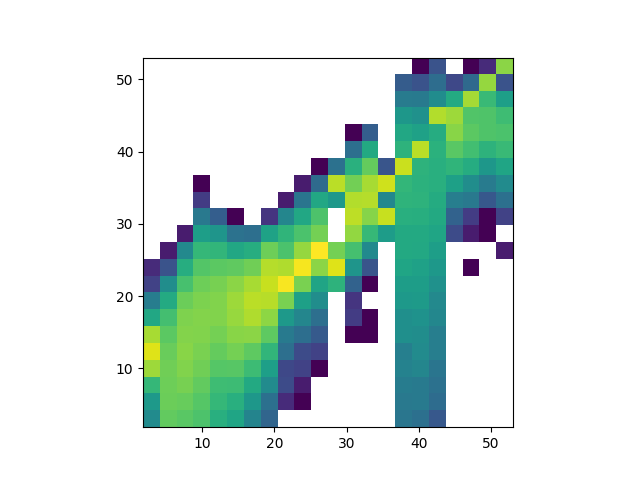
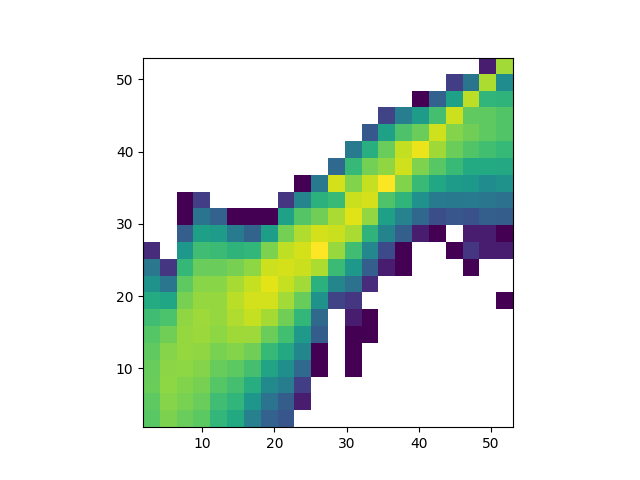
modification on ORCA

Changed region(s): [[0.2188, 0.125, 0.8125, 0.9062], [0.75, 0.5938, 0.8125, 0.6562], [0.75, 0.1562, 0.8125, 0.1875]]

diff --git a/sources/ORCA/plot.py b/sources/ORCA/plot.py
@@ -1,10 +1,47 @@
 import matplotlib.pyplot as plt
 import numpy as np
 from matplotlib.colors import LogNorm
+from scipy.optimize import curve_fit
 
+import digitalizer as dgt
 import util
+from util import gaussian
 import analyze as anl
 from params import *
+
+def plot_mig_hist(binnum):
+
+    tracks = dgt.Digitalizer(input_track, input_scale)
+    cascades = dgt.Digitalizer(input_cascade, input_scale)
+
+    tracks.set_palette(0, -3, 20)
+    cascades.set_palette(0, -3, 20)
+
+    tracks.digitalize(22, 22)
+    cascades.digitalize(22, 22)
+
+    D_tracks = tracks.extracted
+    D_cascades = cascades.extracted
+
+    data_entries = D_tracks[binnum]
+    # data_entries = D_cascades[binnum]
+
+    print(data_entries)
+
+    bins_centers = np.array([0.5 * (x_bins[i] + x_bins[i+1]) for i in range(len(x_bins)-1)])
+    popt, pcov = curve_fit(gaussian, xdata=bins_centers, ydata=data_entries, p0=[binnum, 20])
+
+    # # Generate enough x values to make the curves look smooth.
+    xspace = np.linspace(2, 55, 100000)
+
+    # # Plot the histogram and the fitted function.
+    plt.bar(bins_centers, data_entries, width=x_bins[1] - x_bins[0], color='navy', label=r'Histogram entries')
+    plt.plot(xspace, gaussian(xspace, *popt), color='darkorange', linewidth=2.5, label=r'Fitted function')
+    plt.savefig("./MigMatPlots/TrackMigMatBin{}.png".format(binnum))
+    plt.close()
+
+# for i in range(22):
+#     plot_mig_hist(i)
 
 def plot_zenith_errors():
     e, ebar, mu, mubar = util.get_zenith_error()

diff --git a/sources/ORCA/digitalizer.py b/sources/ORCA/digitalizer.py
@@ -24,6 +24,8 @@ class Digitalizer:
 			# print("in the ", iy, "th bin, the color extracted is ", c)
 			self.palette_clr.append(c)
 
+		# print(self.palette_clr)
+
 	def digitalize(self, n_bins_x, n_bins_y):
 		ext_data = np.zeros((n_bins_x, n_bins_y))
 
@@ -37,6 +39,12 @@ class Digitalizer:
 		            ext_data[ix, n_bins_y - 1 - iy] = 0
 		        else:
 		            ic = np.argmin(np.sum((c[None,:] - self.palette_clr) ** 2, axis = 1) )         # find closest color in palette
+		            if self.palette_x[ic] < 0.002:
+		            	ext_data[ix, n_bins_y - 1 - iy] = 0
+		            	continue
+		            elif self.palette_x[ic] > 0.8: # too dark, probably a text there
+		            	 c = self.image[int(np.round((iy + 0.5) * dy)) + 15, int(np.round((ix + 0.5) * dx) - 10)] # look beside the center
+		            	 ic = np.argmin(np.sum((c[None,:] - self.palette_clr) ** 2, axis = 1) )
 		            ext_data[ix, n_bins_y - 1 - iy] = self.palette_x[ic]
 
 		self.extracted = ext_data
@@ -44,6 +52,6 @@ class Digitalizer:
 	def fit(self):
 		self.gaussians = np.ndarray((self.extracted.shape[0],2), float)
 		for i in range(self.extracted.shape[0]):
-			sigma, mu = gaus_fit(self.extracted[i], x_bins)
+			sigma, mu = gaus_fit(self.extracted[i], x_bins, i)
 			self.gaussians[i][0] = sigma
 			self.gaussians[i][1] = mu

diff --git a/sources/ORCA/util.py b/sources/ORCA/util.py
@@ -5,23 +5,10 @@ from scipy.optimize import curve_fit
 def gaussian(x, mu, sigma):
     return (1 / (sigma * np.sqrt(2 * np.pi)) * np.exp(-1.0 * (x - mu)**2 / (2 * sigma**2)))
 
-def gaus_fit(data_entries, bins):
+def gaus_fit(data_entries, bins, current_binnum):
 	bins_centers = np.array([0.5 * (bins[i] + bins[i+1]) for i in range(len(bins)-1)])
-	# print(bins_centers)
-	# print(data_entries)
-	popt, pcov = curve_fit(gaussian, xdata=bins_centers, ydata=data_entries, p0=[0.5, 0.3])
-	# print(popt)
+	popt, pcov = curve_fit(gaussian, xdata=bins_centers, ydata=data_entries, p0=[current_binnum, 5])
 	return popt[0], popt[1]
-
-	# # Generate enough x values to make the curves look smooth.
-	# xspace = np.linspace(2, 55, 100000)
-
-	# # Plot the histogram and the fitted function.
-	# plt.bar(bins_centers, data_entries, width=bins[1] - bins[0], color='navy', label=r'Histogram entries')
-	# plt.plot(xspace, gaussian(xspace, *popt), color='darkorange', linewidth=2.5, label=r'Fitted function')
-	# plt.show()
-
-
 
 def get_zenith_error():
 

diff --git a/sources/ORCA/analyze.py b/sources/ORCA/analyze.py
@@ -9,8 +9,8 @@ import util
 tracks = dgt.Digitalizer(input_track, input_scale)
 cascades = dgt.Digitalizer(input_cascade, input_scale)
 
-tracks.set_palette(0, -3, 20)
-cascades.set_palette(0, -3, 20)
+tracks.set_palette(0, -3, 100)
+cascades.set_palette(0, -3, 100)
 
 tracks.digitalize(22, 22)
 cascades.digitalize(22, 22)
